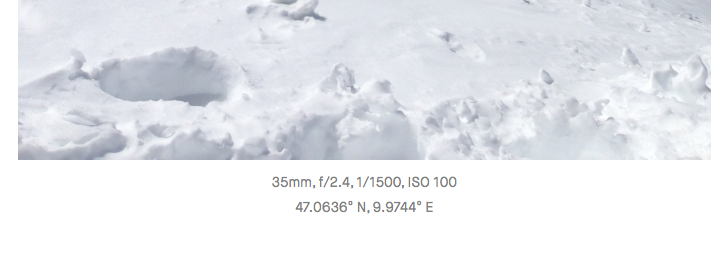
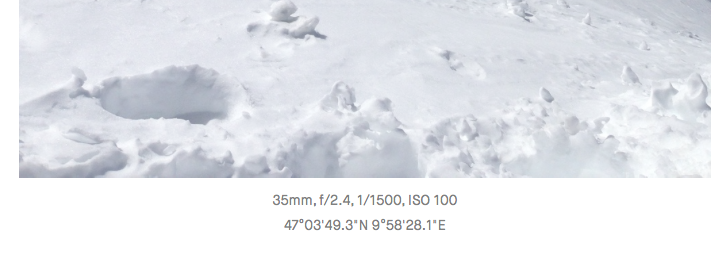
Add gps coordinate properties in sexagesimal format

diff --git a/assetmetadata/services/AssetMetadataService.php b/assetmetadata/services/AssetMetadataService.php
@@ -186,39 +186,113 @@ class AssetMetadataService extends BaseApplicationComponent
 			$data['playtime_ISO8601'] = DateInterval::fromSeconds($data['playtime_seconds']);
 		}
 
-		// Add `ExposureTimeRatio` property (string).
+		// Add `EXIF.ExposureTimeRatio` property (string).
 		foreach (array('jpg', 'tiff') as $fileType)
 		{
 			if (isset($data[$fileType]['exif']['EXIF']['ExposureTime']))
 			{
-				$data[$fileType]['exif']['EXIF']['ExposureTimeRatio'] = $this->_float2rat($data[$fileType]['exif']['EXIF']['ExposureTime']);
+				$data[$fileType]['exif']['EXIF']['ExposureTimeRatio'] = $this->_floatToFraction($data[$fileType]['exif']['EXIF']['ExposureTime']);
 			}
 		}
+
+		// Add `GPS.computed.latitude_sexagesimal` property (string).
+		if (isset($data['jpg']['exif']['GPS']))
+		{
+			$gpsData = $data['jpg']['exif']['GPS'];
+
+			if (isset($gpsData['GPSLatitudeRef']) && isset($gpsData['GPSLatitude']) && (count($gpsData['GPSLatitude']) == 3))
+			{
+				$data['jpg']['exif']['GPS']['computed']['latitude_sexagesimal'] = $this->_formatGpsCoordinate($gpsData['GPSLatitude']) .
+											  Craft::t($gpsData['GPSLatitudeRef']);
+
+			}
+
+			if (isset($gpsData['GPSLongitudeRef']) && isset($gpsData['GPSLongitude']) && (count($gpsData['GPSLongitude']) == 3))
+			{
+				$data['jpg']['exif']['GPS']['computed']['longitude_sexagesimal'] = $this->_formatGpsCoordinate($gpsData['GPSLongitude']) .
+											   Craft::t($gpsData['GPSLongitudeRef']);
+			}
+		}
+	}
+
+	/**
+	 * Converts an EXIF GPS coordinate into sexagesimal format (ISO 6709).
+	 * http://stackoverflow.com/questions/2526304/php-extract-gps-exif-data
+	 *
+	 * @param array $coordinate
+	 * @return string
+	 */
+	private function _formatGpsCoordinate(array $coordinate)
+	{
+		foreach ($coordinate as $key => $value)
+		{
+			$coordinate[$key] = $this->_fractionToFloat($value);
+		}
+
+		$coordinate[1] += 60 * ($coordinate[0] - floor($coordinate[0]));
+  		$coordinate[0] = floor($coordinate[0]);
+
+		$coordinate[2] += 60 * ($coordinate[1] - floor($coordinate[1]));
+  		$coordinate[1] = floor($coordinate[1]);
+
+		// We don't want minute or second values larger than 60.
+		if($coordinate[2] >= 60)
+		{
+			$coordinate[1] += floor($coordinate[2] / 60);
+			$coordinate[2] -= 60 * floor($coordinate[2] / 60);
+		}
+
+		if($coordinate[1] >= 60)
+		{
+			$coordinate[0] += floor($coordinate[1] / 60);
+			$coordinate[1] -= 60 * floor($coordinate[1] / 60);
+		}
+
+		// Add leading and trailing zeros
+		$coordinate[2] = number_format($coordinate[2], $this->_settings['gpsSecDecimals'], $this->_settings['gpsSecDecPoint'], '');
+
+		$charsTotal = 2 + (($this->_settings['gpsSecDecimals'] != 0) ? strlen($this->_settings['gpsSecDecPoint']) : 0) + $this->_settings['gpsSecDecimals'];
+		$coordinate[2] = sprintf('%0'.$charsTotal.'s', $coordinate[2]);
+
+		return $coordinate[0].'°'.$coordinate[1].'\''.$coordinate[2].'"';
+	}
+
+	/**
+	 * Converts a fraction to a decimal number.
+	 *
+	 * @param string $fraction
+	 * @return float
+	 */
+	private function _fractionToFloat($fraction)
+	{
+		list($numerator, $denominator) = explode('/', $fraction);
+
+	        return $numerator / ($denominator ? $denominator : 1);
 	}
 
 	/**
 	 * Converts a decimal number to a fraction.
 	 * http://jonisalonen.com/2012/converting-decimal-numbers-to-ratios/
 	 *
-	 * @param float $n
+	 * @param float $float
 	 * @param float $tolerance
 	 * @return string
 	 */
-	private function _float2rat($n, $tolerance = 1.e-6)
+	private function _floatToFraction($float, $tolerance = 1.e-6)
 	{
-		$h1=1; $h2=0;
-		$k1=0; $k2=1;
-		$b = 1/$n;
+		$h1 = 1; $h2 = 0;
+		$k1 = 0; $k2 = 1;
+		$b = 1 / $float;
 
 		do
 		{
-			$b = 1/$b;
+			$b = 1 / $b;
 			$a = floor($b);
-			$aux = $h1; $h1 = $a*$h1+$h2; $h2 = $aux;
-			$aux = $k1; $k1 = $a*$k1+$k2; $k2 = $aux;
-			$b = $b-$a;
+			$aux = $h1; $h1 = $a * $h1 + $h2; $h2 = $aux;
+			$aux = $k1; $k1 = $a * $k1 + $k2; $k2 = $aux;
+			$b = $b - $a;
 		}
-		while (abs($n-$h1/$k1) > $n*$tolerance);
+		while (abs($float - $h1 / $k1) > $float * $tolerance);
 
 		return $h1.'/'.$k1;
 	}

diff --git a/assetmetadata/AssetMetadataPlugin.php b/assetmetadata/AssetMetadataPlugin.php
@@ -31,6 +31,8 @@ class AssetMetadataPlugin extends BasePlugin
 			'extraInfo'      => array(AttributeType::Bool, 'default' => true),
 			'md5Data'        => array(AttributeType::Bool, 'default' => false),
 			'sha1Data'       => array(AttributeType::Bool, 'default' => false),
+			'gpsSecDecimals' => array(AttributeType::Number, 'min' => 0, 'default' => 3),
+			'gpsSecDecPoint' => array(AttributeType::String, 'default' => '.'),
 		);
 	}
 

diff --git a/assetmetadata/translations/de.php b/assetmetadata/translations/de.php
@@ -1,0 +1,8 @@
+<?php
+
+return array(
+        'N' => 'N',
+        'S' => 'S',
+        'W' => 'W',
+        'E' => 'O',
+);
